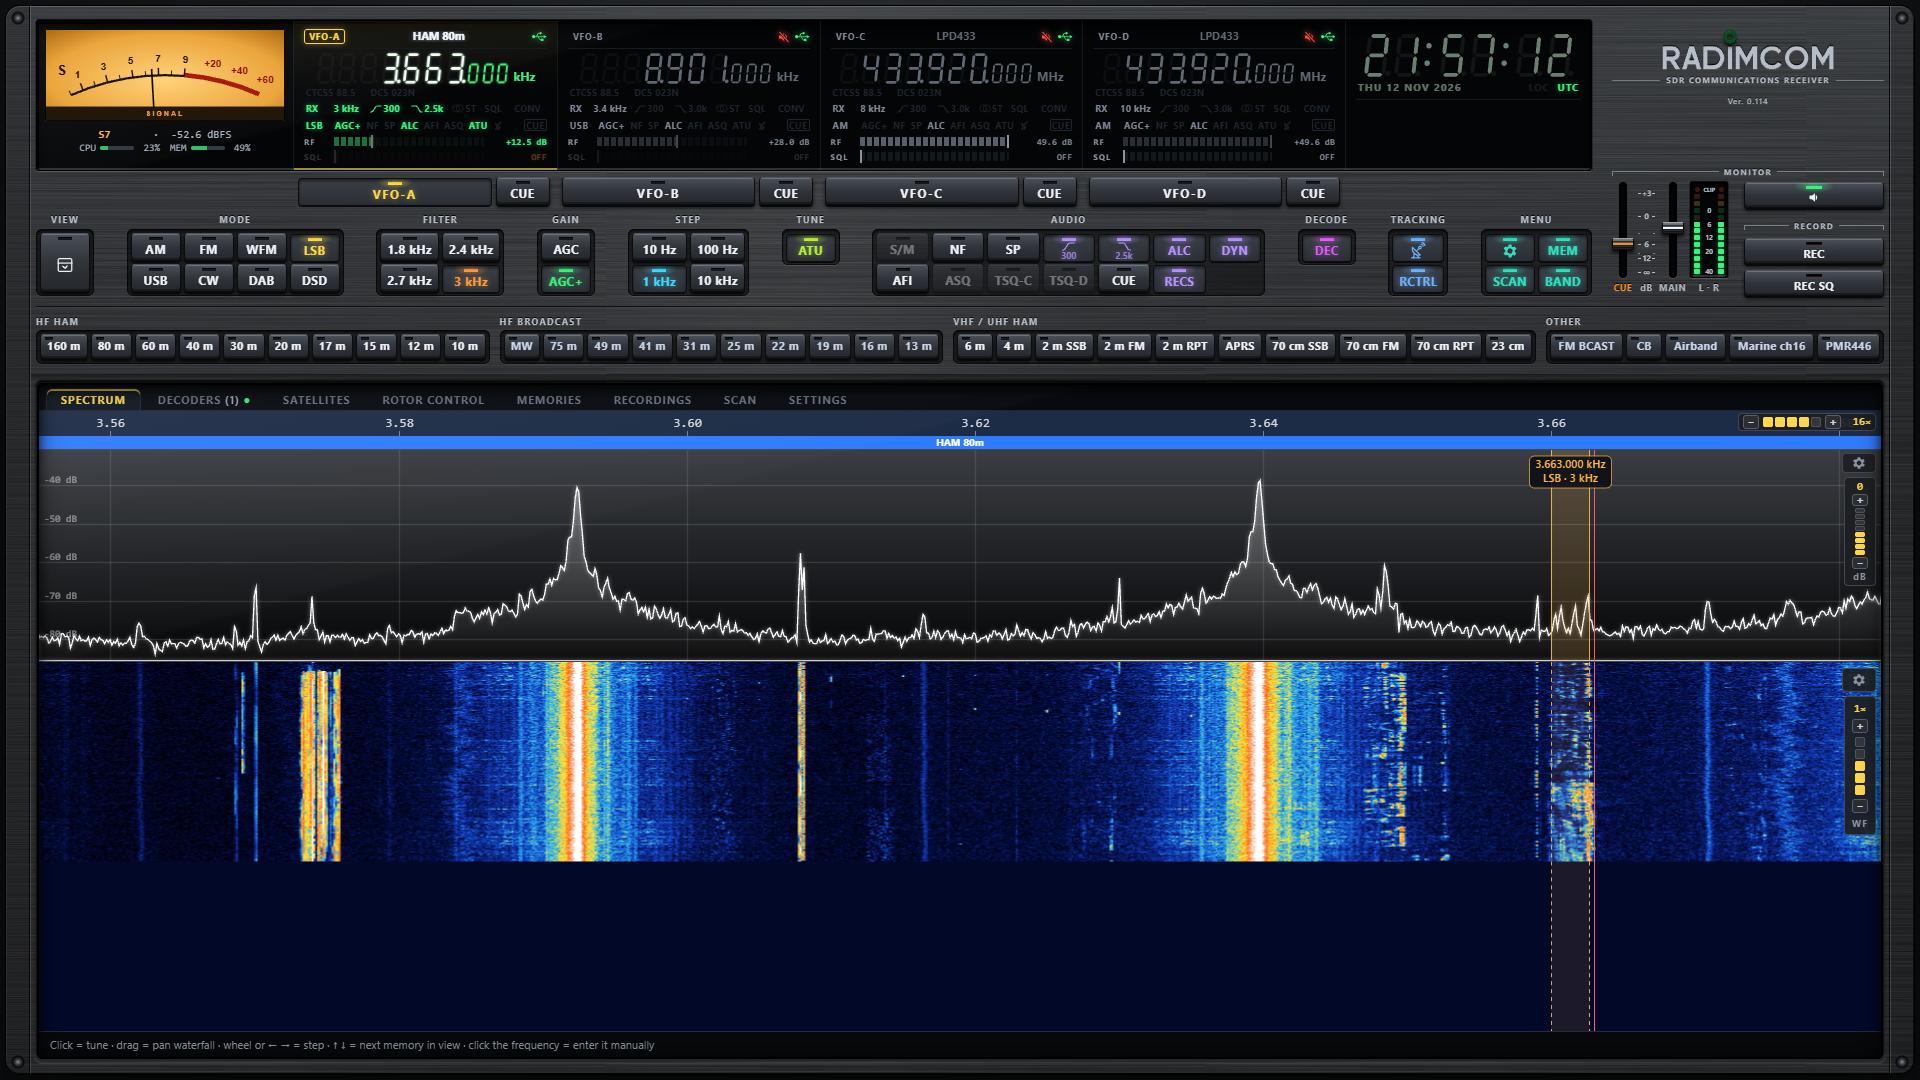
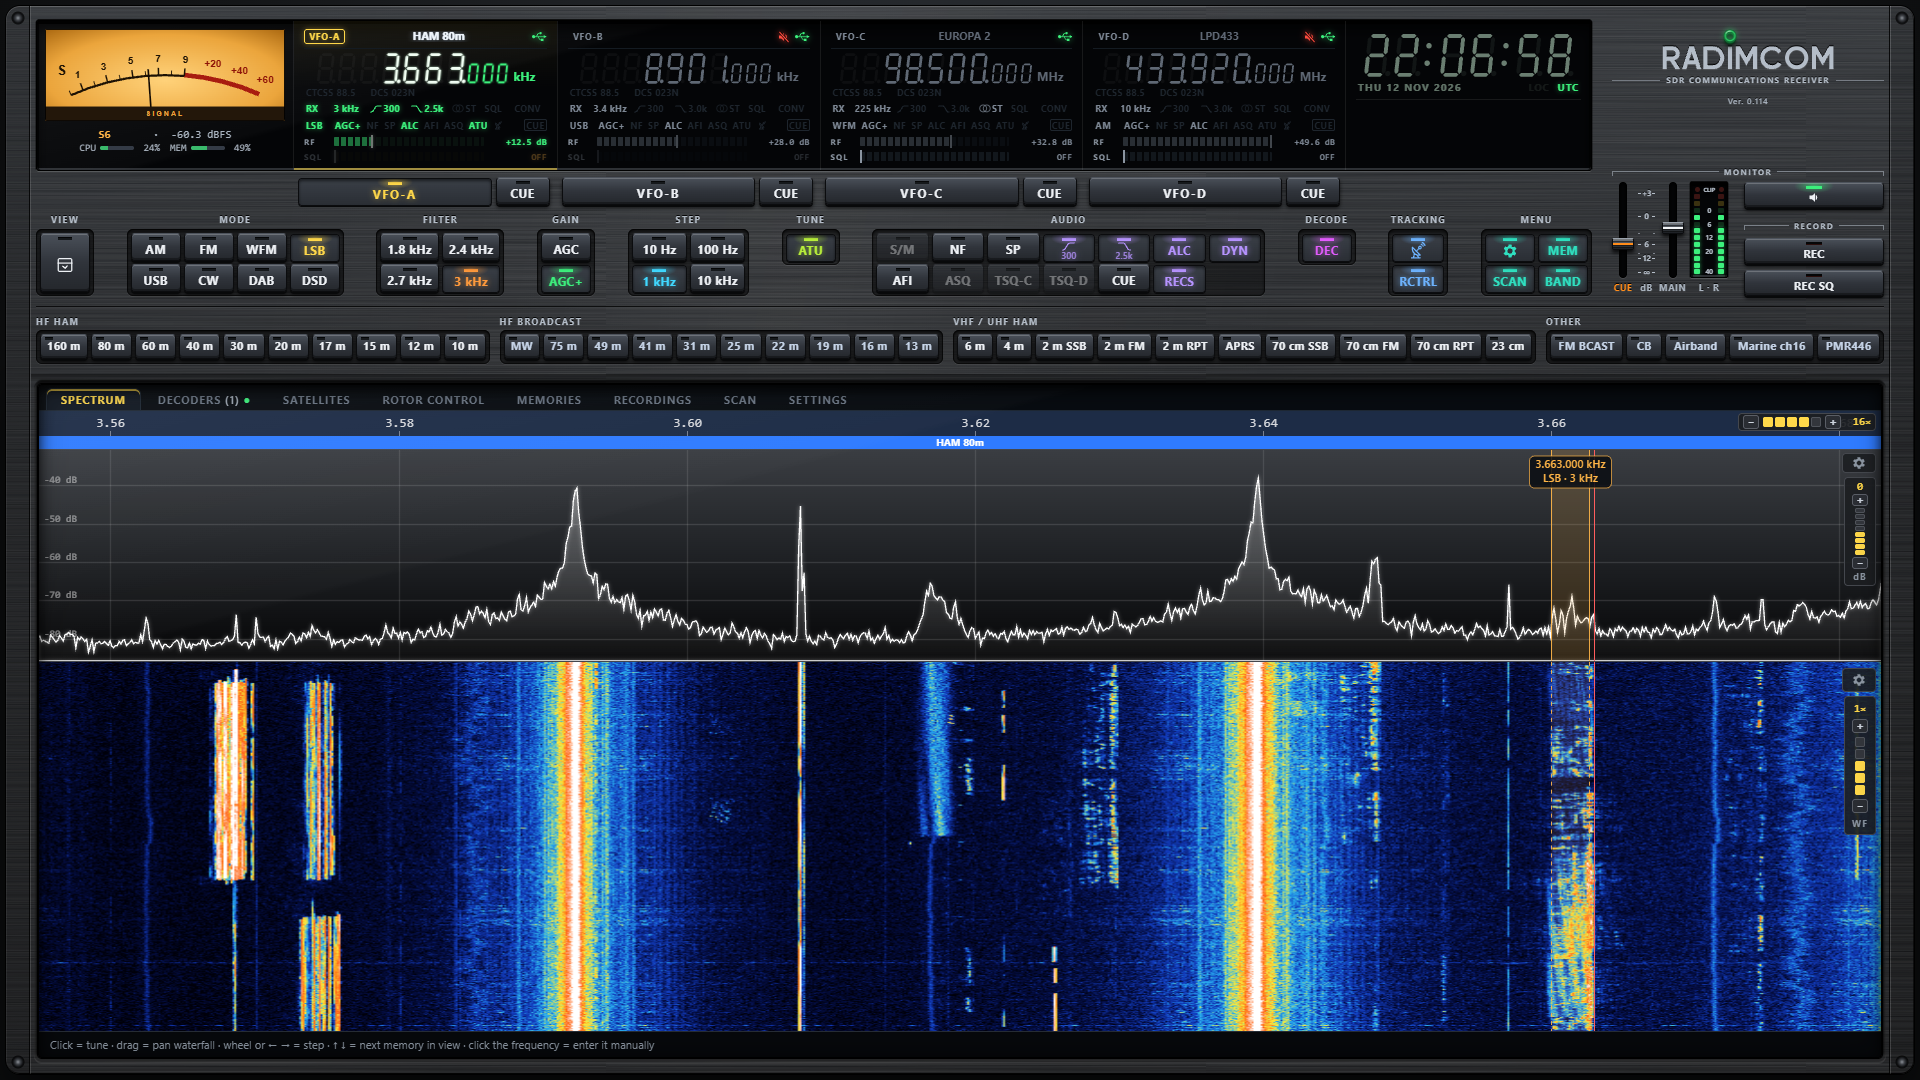
update images

diff --git a/CHANGELOG.md b/CHANGELOG.md
@@ -50,7 +50,7 @@ Released after the test beta (GitHub branch `0.114beta1`). Many parts are contri
 
 ### Minor Fixes
 
-- **New screenshots in the docs** for the 0.114 look: main screen, all SATELLITES pages, and new ones of SCAN, ROTOR CONTROL (MAP, CONNECTION), MEMORIES (CHANNELS, GROUPS), RECORDINGS, SETTINGS (SKINS, S-METER, VFO) and the SSTV / WEFAX galleries; README has four more in Screenshots.
+- **New screenshots in the docs** for the 0.114 look: main screen and WFM with RDS (with the whole waterfall), all SATELLITES pages, and new ones of SCAN, ROTOR CONTROL (MAP, CONNECTION), MEMORIES (CHANNELS, GROUPS), RECORDINGS, SETTINGS (SKINS, S-METER, VFO) and the SSTV / WEFAX galleries; README has four more in Screenshots.
 - **RECS key tooltip** showed a broken path (`data` + line break + `ecordings`); it says `data\recordings` again.
 - **Keys inside the tabs in the colour of the tab:** the lit keys of the `.bands` kind (the band and view keys of the decoders: FT8, ACARS, HFDL, AIS, ADS-B, WEFAX, ISM, SSTV, PACKET) had a yellow LED line instead of the colour of the tab; the gold keys in RECORDINGS (play) and SETTINGS (SAVE of the location and the recordings folder) are keys like the others with the legend in the colour of the tab, and the new row flash in the decoder tables, the edited row in MEMORIES and the block diagram in SETTINGS follow the tab colour too.
 - **DECODERS: page keys in groups** (by Brano, brjanicek). The page keys are ordered CW, FT8, PACKET, RTTY, SSTV, WEFAX | ACARS, ADS-B, HFDL, VDL2 | AIS | ISM, with a thin vertical separator between the groups (HF digital modes, aircraft, ships, ISM). The default page of a VFO without a saved page stays FT8.
